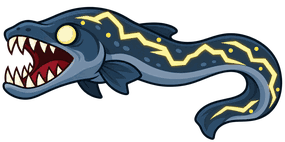
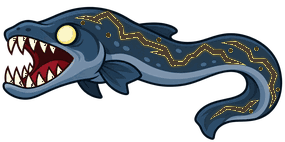
Exaggerate the electric eel's pulse -- dim the base marks first
The first version was too subtle to notice: the glow overlay pulsed on
top of marks that were already fully bright in the base body art, so
even at its dimmest the glow was just adding a faint bloom on top of
an already-lit line. Dims those same pixels in electric-eel.png itself
(way down, to a dull unlit amber) so the glow layer's wider 0.15-1
opacity swing (plus a bigger blur and a slight scale pulse) reads as
an actual on/off flicker instead of a subtle brightness wobble.

Claude-Session: https://claude.ai/code/session_01GdbKnNkgRLqfTaeg6sao3T

diff --git a/src/index.css b/src/index.css
@@ -275,17 +275,25 @@ body {
 .eel__glow {
   /* Blurred so the marks bloom into a soft glow instead of just changing
      color, and pulsed quickly (much quicker than the Anglerfish's slow,
-     leisurely lure) since this is meant to read as current, not a lure. */
-  filter: blur(1.2px);
+     leisurely lure) since this is meant to read as current, not a lure.
+     electric-eel.png's own marks are now drawn dim/unlit (see AGENTS.md)
+     specifically so this layer pulsing from nearly invisible to a bright,
+     oversized bloom reads as a real on/off flicker instead of a subtle
+     brightness wobble on marks that were already fully lit underneath. */
+  transform-box: fill-box;
+  transform-origin: center;
+  filter: blur(2.5px) brightness(1.4);
   animation: eelPulse 0.9s ease-in-out infinite alternate;
 }
 
 @keyframes eelPulse {
   from {
-    opacity: 0.4;
+    opacity: 0.15;
+    transform: scale(0.94);
   }
   to {
     opacity: 1;
+    transform: scale(1.08);
   }
 }
 

diff --git a/AGENTS.md b/AGENTS.md
@@ -289,11 +289,11 @@ for a different (smaller, tighter) look.
 the body art and pulses it (`.eel__glow` in index.css, a much quicker
 0.9s cycle than the Anglerfish's leisurely lure -- meant to read as
 current, not a lure) so the body's own "lightning" marks actually look
-electric instead of static. That file is a derivative of
-`electric-eel.png` itself, not new art: every pixel classified as one of
-the body art's own yellow tones (`r>230, g>210, b<200, r-b>40` against
-the *processed* PNG, so this has to be regenerated if the body art is
-ever reprocessed) was kept at its original color with everything else
+electric instead of static. That file is a derivative of the body art:
+every pixel classified as one of its own yellow tones (`r>230, g>210,
+b<200, r-b>40` against the *processed* `electric-eel.png`, so both this
+and the next step have to be redone if the body art is ever
+reprocessed) was kept at its original bright color with everything else
 made transparent, then one connected component -- large and
 circle-filled enough to be the eye's iris rather than a thin zigzag
 stroke or a small dot -- was explicitly dropped so the eye doesn't pulse
@@ -301,6 +301,16 @@ along with the actual marks. Same size/position as the body image so it
 lines up pixel-for-pixel without needing its own offset. Small enough
 (~1.5KB) that Vite inlines it as a data URI rather than emitting a
 separate file (the same &lt;4KB threshold every build tool defaults to).
+
+`electric-eel.png` itself was then edited a second time: every one of
+those same marked pixels had its color scaled way down (`r*0.3, g*0.25,
+b*0.3`) to a dull, unlit amber-on-slate instead of full brightness.
+Layering a pulsing bright overlay on top of marks that were already
+fully lit underneath (the first version of this) barely registered --
+the base art never got any dimmer than the glow's own dimmest point, so
+the "pulse" was really just a faint bloom on top of an already-bright
+line. Dimming the base first makes the two layers' opacity swing (0.15
+to 1, wider than initially tried too) read as an actual on/off flicker.
 
 Level 7's `Piranha` (school of 7, see `getSchoolOffsets`) is vendored real
 vector art -- "piranha" by liakad on OpenClipart
